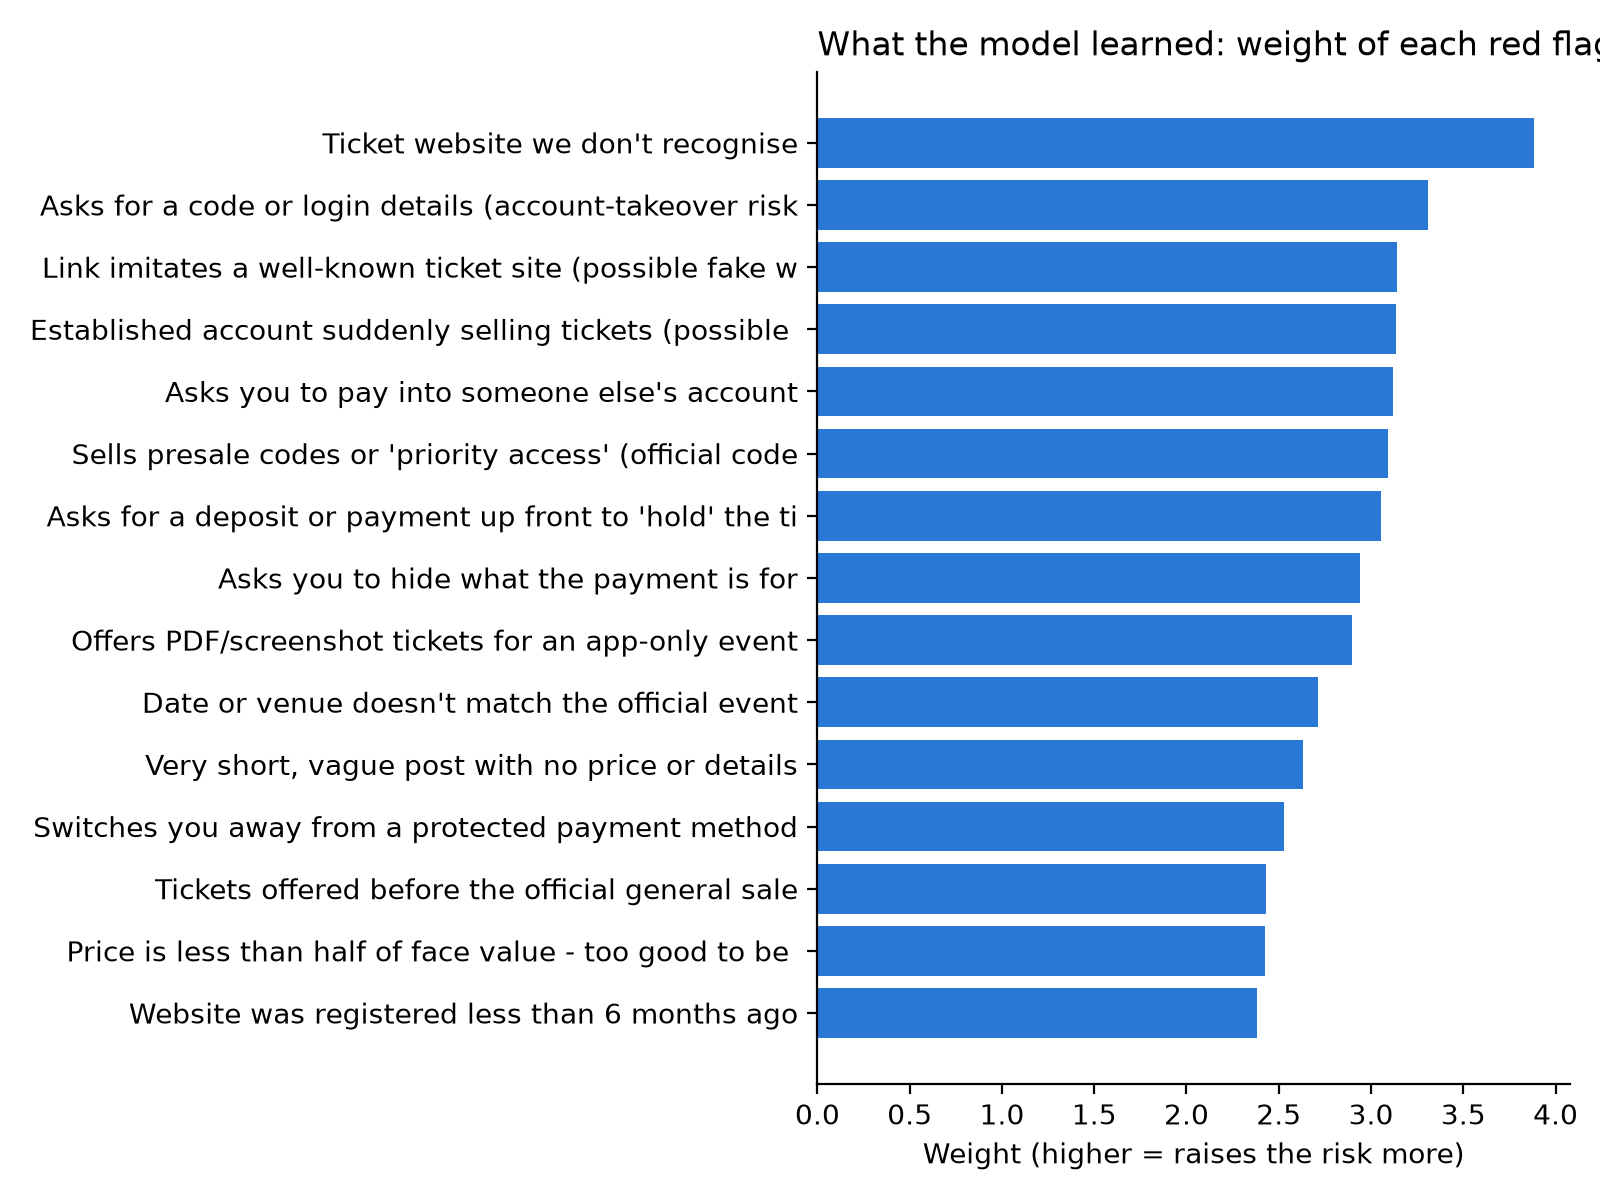
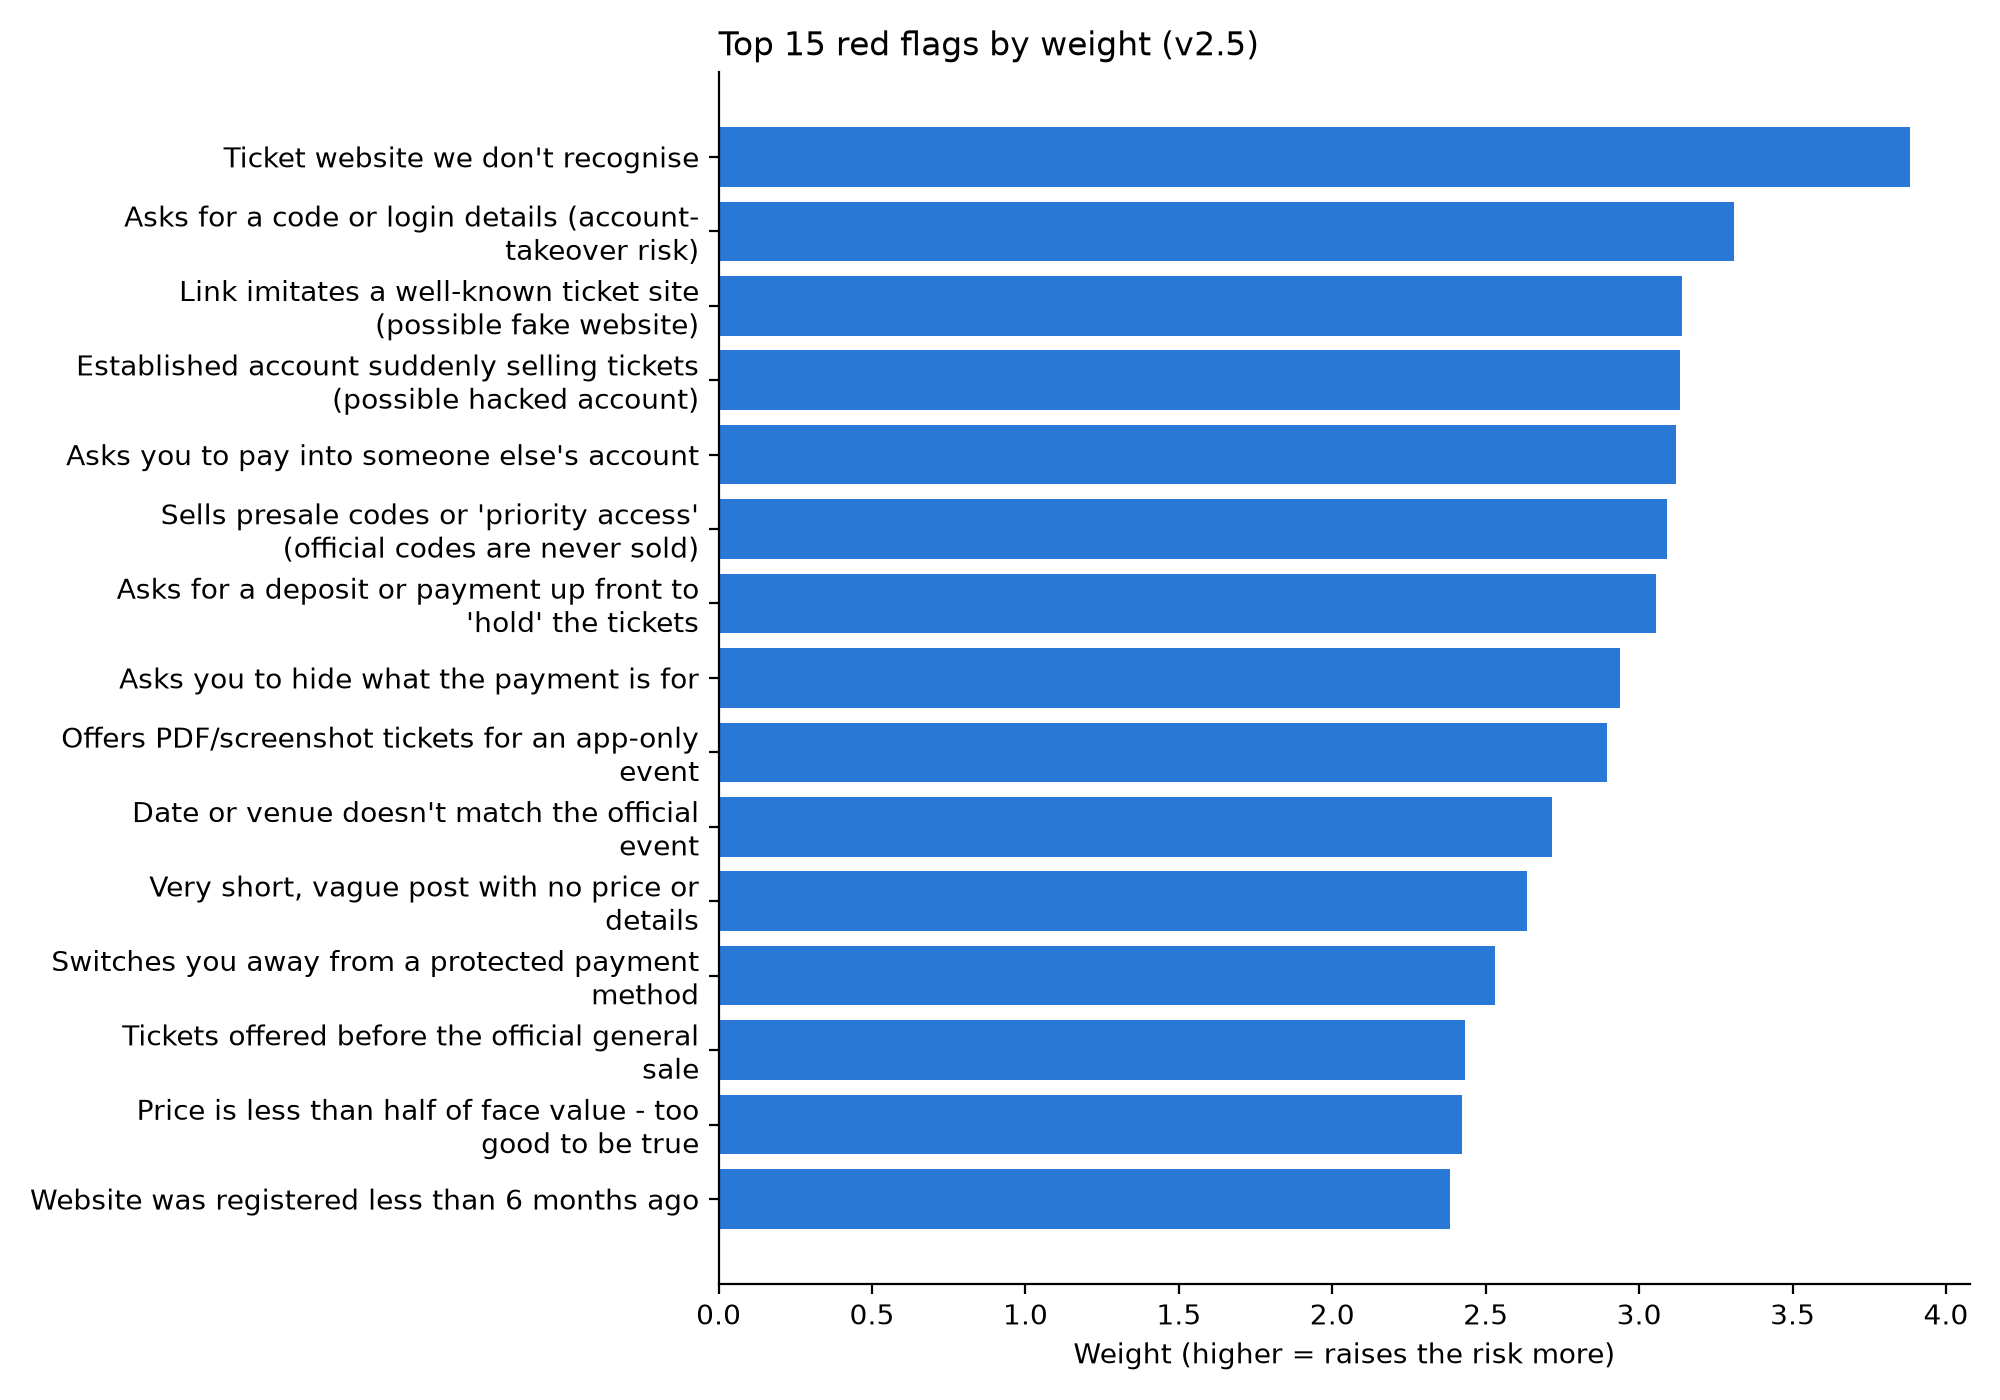
Update: Top features image updated so words and bars are not cut off.

Changed region(s): [[0.0, 0.0, 1.0, 0.9867], [0.3438, 0.925, 0.375, 0.9558]]

diff --git a/step2_train_model.py b/step2_train_model.py
@@ -101,9 +101,10 @@ model = build_v25().fit(pd.concat([S, R], ignore_index=True), np.r_[yS, yR],
 w = model.weights()
 w = w[w != 0]
 top = w.head(15)[::-1]
-plt.figure(figsize=(8, 6))
-plt.barh([ALL_DESCRIPTIONS[k][:55] for k in top.index], top.values, color="#2a78d6")
-plt.title("What the model learned: weight of each red flag", loc="left")
+import textwrap
+plt.figure(figsize=(10, 7))
+plt.barh([textwrap.fill(ALL_DESCRIPTIONS[k], 45) for k in top.index], top.values, color="#2a78d6")
+plt.title("Top 15 red flags by weight (v2.5)", loc="left")
 plt.xlabel("Weight (higher = raises the risk more)")
 plt.gca().spines[["top", "right"]].set_visible(False)
 plt.tight_layout(); plt.savefig("outputs/top_features.png", dpi=200); plt.close()
